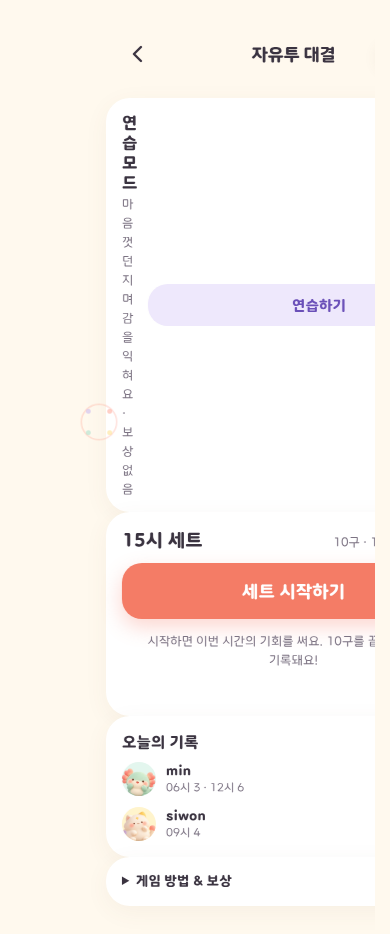
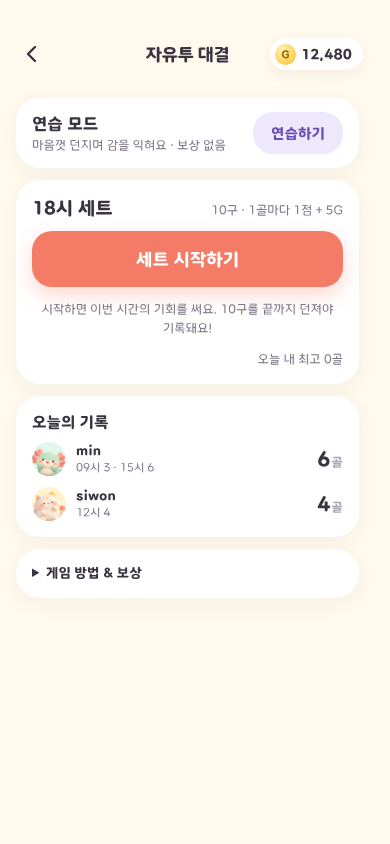
자유투 대기 화면 카드 레이아웃 복구 (#43)
전체 화면 플레이로 옮기며 카드 좌우 여백·간격 규칙이 빠져 카드가 화면 끝에 붙고,
연습하기 버튼이 공용 버튼의 width: 100%를 물려받아 연습 모드 문구가 한 글자씩 세로로 쪼개졌다.
카드 여백을 되살리고 버튼은 내용 너비, 문구 칸은 남은 너비를 쓰게 한다.

Claude-Session: https://claude.ai/code/session_01Ei8sjb7NLLH6VcDFWTTLSY

diff --git a/src/freethrow/freethrow.css b/src/freethrow/freethrow.css
@@ -1,5 +1,7 @@
 .freethrow-page { padding-bottom: 28px; }
+.freethrow-mode, .freethrow-official, .freethrow-sync, .freethrow-today, .freethrow-guide { width: calc(100% - 32px); margin: 0 auto 12px; }
 .freethrow-mode { display: flex; align-items: center; justify-content: space-between; gap: 10px; padding: 14px 16px; }
+.freethrow-mode > div { flex: 1; min-width: 0; word-break: keep-all; }
 .freethrow-mode strong { display: block; font-size: 16px; font-weight: 800; }
 .freethrow-mode small { display: block; margin-top: 2px; color: var(--muted); font-size: 12px; }
 .freethrow-court { position: absolute; inset: 0; overflow: hidden; background: #eee8fc; }
@@ -61,7 +63,7 @@
 .freethrow-today li > b { font-size: 20px; font-weight: 800; font-variant-numeric: tabular-nums; }
 .freethrow-today li > b span { margin-left: 1px; color: var(--faint); font-size: 12px; }
 
-.freethrow-mode .freethrow-practice { flex-shrink: 0; height: 42px; padding: 0 18px; font-size: 14px; }
+.freethrow-mode .freethrow-practice { flex-shrink: 0; width: auto; height: 42px; padding: 0 18px; font-size: 14px; }
 .freethrow-sync { display: flex; align-items: center; justify-content: center; gap: 10px; padding: 12px 16px; color: var(--muted); font-size: 13px; text-align: center; word-break: keep-all; }
 .freethrow-sync[role="alert"] { color: #d9604c; }
 .freethrow-practice-stats { display: flex; align-items: baseline; gap: 12px; font-size: 14px; color: var(--muted); font-variant-numeric: tabular-nums; white-space: nowrap; overflow: hidden; }
